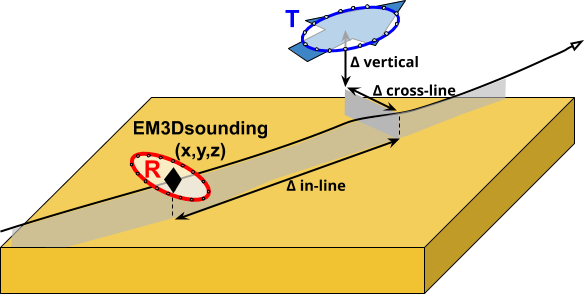
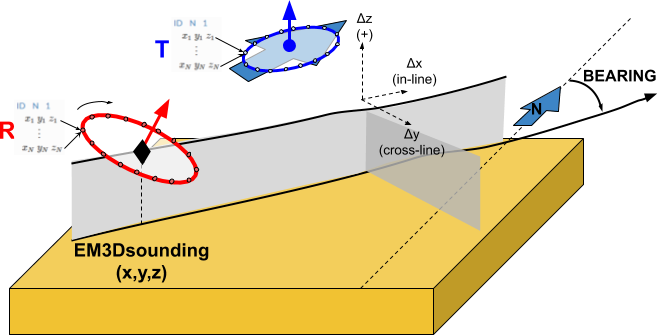
Clean up objfunc\data\em docs. Add figures

diff --git a/content/objectFunctionality/data/em/dataType.rst b/content/objectFunctionality/data/em/dataType.rst
@@ -7,20 +7,16 @@ EM Data Classes
 
 There are two main types of EM data that can be created in GIFtools.
 
+- :ref:`EMdata <objectEMdtype_EMdata>`
+- :ref:`EMsounding <objectEMdtype_EMdata>`
 
 .. _objectEMdtype_EMdata:
 
 EMdata
 ^^^^^^
 
-Data class used for:
-
--  `E3Dv1 <https://e3d.readthedocs.io/en/e3dinv/content/files/obsFile.html#observations-file>`_,
-- ``H3DTD``
-- `TDoctree v1 <https://tdoctree.readthedocs.io/en/tdoctree_ver1/>`_
-
-The receivers are assumed to be point measurements of the fields (E, H) along
-the Cartesian directions. Transmitters can be defined as
+For the ``EMdata`` class, the receivers are assumed to be point measurements of EM fields (E, H) collected along
+the Cartesian directions. Only the transmitter type can be defined as
 
 - **TRX_LOOP:** Simple loop
 	- Radius of the transmitter
@@ -29,32 +25,47 @@ the Cartesian directions. Transmitters can be defined as
 - **TRX_ORIG:** Defined by vertices
 	- For purely inductive source, the first and last entry must be the same in order to close the wire path.
 
+The ``EMdata`` class is used for:
+
+- `E3Dv1 <https://e3d.readthedocs.io/en/e3dinv/content/files/obsFile.html#observations-file>`_
+- `H3DTD <https://gif.eos.ubc.ca/sites/default/files/sdevriese/files/H3DTDinv_manual_v_1_2.pdf>`_
+- `TDoctree v1 <https://tdoctree.readthedocs.io/en/tdoctree_ver1/>`_
+
 .. figure:: ../../../../images/object/data/em/EMdata.png
     :align: center
     :scale: 75%
 
 
-.. _objectEMdtype_EM1Dsounding:
+.. _objectEMdtype_EMsounding:
 
 EMsounding
 ^^^^^^^^^^
 
-Both the transmitter and receiver locations are required and used in the forward and inverse problems. This is the most general format that allows to store raw data collected along line.
+For the ``EMsounding`` class, parameters describing both the transmitter and receiver are
+required and used in the forward and inverse problems. This is the most
+general format. It allows to easily store airborne data collected from
+transmitters and receivers of arbitrary shapes and orientations. The
+``EMsounding`` is further divided into two sub-classes:
 
+
+.. _objectEMdtype_EM1Dsounding:
 
 EM1Dsounding
 ------------
 
-Data class used for:
-
-- `EM1DFM inversion <https://em1dfm.readthedocs.io/en/latest/#em1dfm-package>`_,
-- `EM1DTM inversion <https://em1dtm.readthedocs.io/en/latest/#em1dtm-package>`_
-
-For `EM1Dsounding` objects, the position of the receiver is set **relative to the transmitter locations**. The following parameters are required:
+For ``EM1Dsounding`` objects, receiver can either be defined as a ``dipole``
+or ``loop`` source. The position of the receiver is set **relative to the
+transmitter locations**. The following parameters are required:
 
 	- **Along-line offset:** The along-line position of receivers, **relative to transmitter locations**
 	- **Cross-line offset:** The cross-line position of receivers, **relative to transmitter locations**
 	- **Vertical offset:** The vertical location of the receivers relative to the surface
+	- **Dipole Moment:** Uses a right-handed **positive down** coordinate system
+
+The ``EM1Dsouding`` data class used for:
+
+- `EM1DFM inversion <https://em1dfm.readthedocs.io/en/latest/#em1dfm-package>`_,
+- `EM1DTM inversion <https://em1dtm.readthedocs.io/en/latest/#em1dtm-package>`_
 
 .. figure:: ../../../../images/object/data/em/create_FEM_Tx_Rx.png
     :align: center
@@ -66,12 +77,18 @@ For `EM1Dsounding` objects, the position of the receiver is set **relative to th
 EM3Dsounding
 ------------
 
+For ``EM3Dsounding`` objects, information about the position and orientation of
+the system are stored directly by the transmitter and receiver objects.
+
+- **Loop transmitter/receiver**: Loop transmitters and receivers must be defined in a left-handed (clockwise) manner. For example, a horizontal loop must be defined in a clockwise manner for its dipole moment to be in the vertical direction. For N loop segments, you will need to define N+1 nodes; e.g. you must close the loop. If a closed loop is used to define a receiver, the corresponding data are the magnetic field in units A/m.
+- **Wire transmitter/receiver**: Wire transmitters and receivers are defined using node locations without repetition of the first node.
+
+For display purposes, the averaged receiver node locations are used to plot the data.
+
 This data class is use for:
 
 - `E3Dv2 tiled <https://e3d.readthedocs.io/en/e3dinv_ver2_tiled/index.html#e3d-version-2-tiled-package>`_
 - `TDoctree v2 <https://tdoctree.readthedocs.io/en/tdoctree_ver2/>`_
-
-For `EM3Dsounding` objects, information about the position and orientation of the system are stored directly by the transmitter and receiver objects.
 
 .. figure:: ../../../../images/object/data/em/EM3DSoundingOffsets.png
     :align: center
